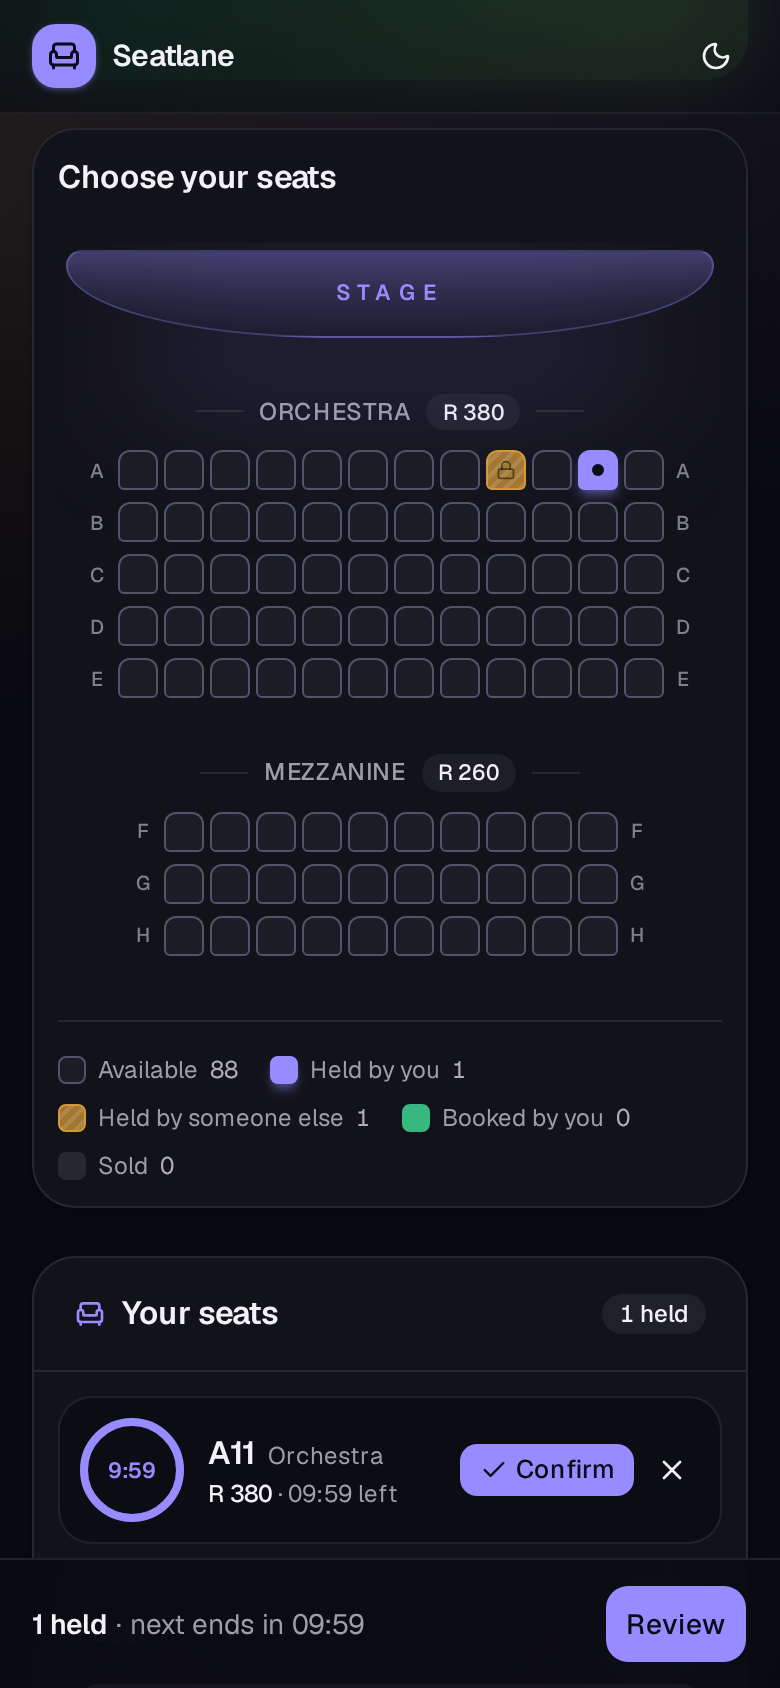
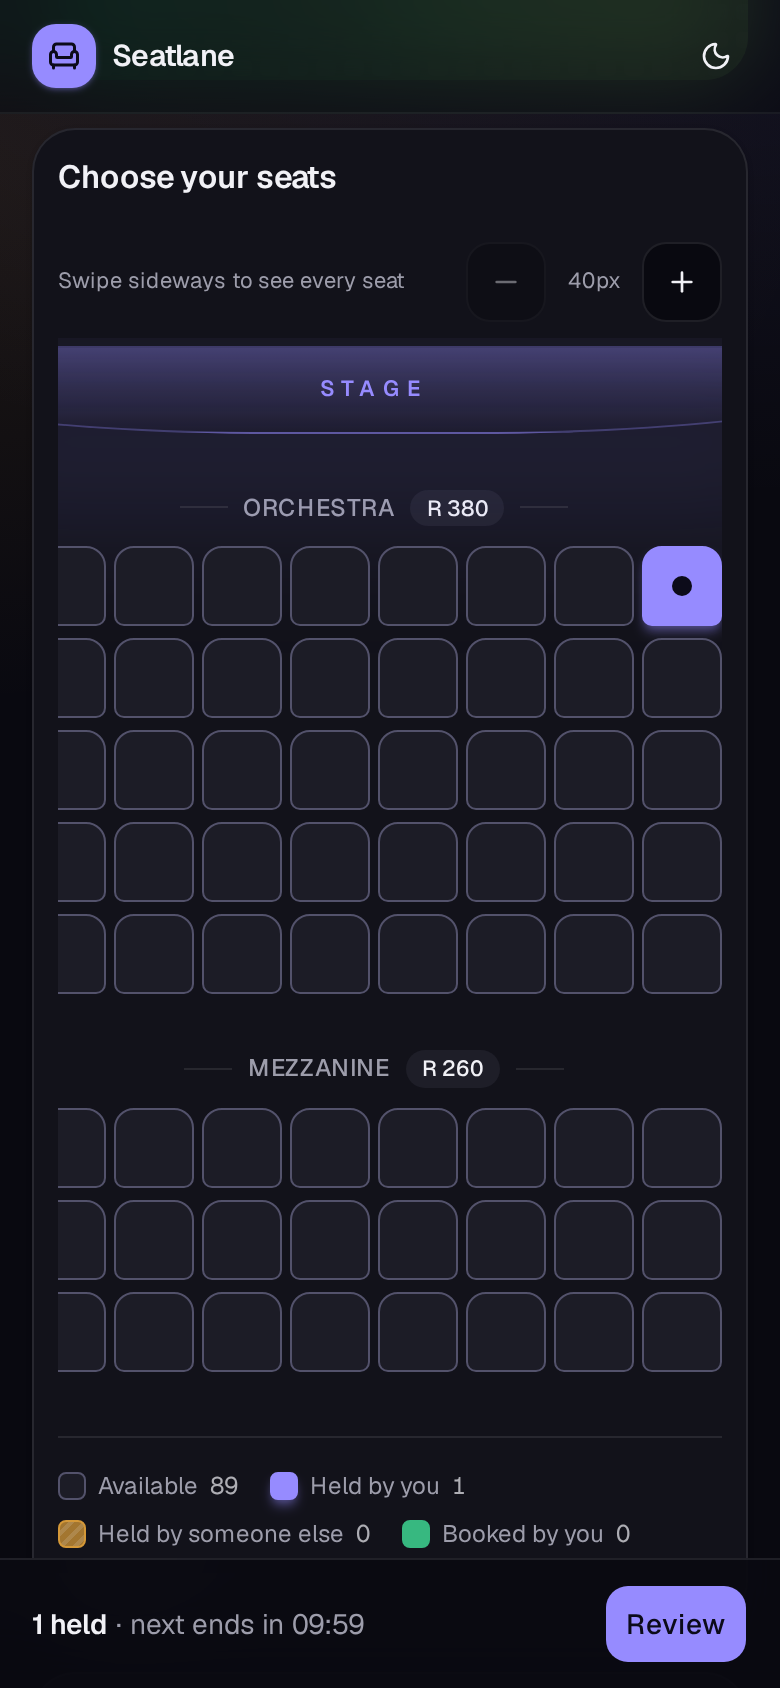
Mobile: 40px seat tap targets with sideways scroll and +/- zoom; tapping your own held seat asks before releasing
Under 640px every seat is at least 40px (40/48/56 with the zoom buttons) and
the map scrolls inside its card. A touch tap on a seat you hold opens a
'Release ...?' dialog; mouse click and Enter still release at once.

docs/bridge-en-gaps.md records why the all-or-nothing Confirm all of an
explicit seat_ids list cannot be written in bridge-en v0.1.2 (no list input,
no IN in a claim, S10 compares the changed count only with 0 or 1), and the
S10 compound-guard loophole. Confirm all is unchanged (per seat) until then.

diff --git a/web/src/components/seat-map.tsx b/web/src/components/seat-map.tsx
@@ -1,6 +1,6 @@
 import { memo, useCallback, useEffect, useMemo, useRef, useState } from 'react'
 import { AnimatePresence, motion } from 'framer-motion'
-import { Check, Loader2, Lock, X } from 'lucide-react'
+import { Check, Loader2, Lock, Minus, Plus, X } from 'lucide-react'
 import type { Seat } from '@/lib/api'
 import { formatMoney, formatRange, seatLabel } from '@/lib/format'
 import { layout, seatState, STATE_TEXT, type SeatState } from '@/lib/seats'
@@ -11,8 +11,13 @@ export type Pending = 'hold' | 'release' | 'confirm'
 type Props = {
   seats: Seat[]
   pending: ReadonlyMap<number, Pending>
-  onActivate: (seat: Seat) => void
+  /** `touch`: the seat was tapped on a touch screen (not a mouse click or a key). */
+  onActivate: (seat: Seat, via: { touch: boolean }) => void
 }
+
+/** Seat sizes on screens under 640px, in CSS pixels: never below 40, the
+ * smallest comfortable tap target. Wider screens use a fixed 28px seat. */
+const ZOOMS = [40, 48, 56] as const
 
 const SEAT_STYLE: Record<SeatState, string> = {
   available:
@@ -42,6 +47,7 @@ export function SeatMap({ seats, pending, onActivate }: Props) {
   const canvas = useRef<HTMLDivElement>(null)
   const scroller = useRef<HTMLDivElement>(null)
   const [wide, setWide] = useState(false)
+  const [zoom, setZoom] = useState(0)
   // On narrow screens a wide hall scrolls sideways: start centred on the stage.
   useEffect(() => {
     const el = scroller.current
@@ -55,7 +61,7 @@ export function SeatMap({ seats, pending, onActivate }: Props) {
     const ro = new ResizeObserver(check)
     ro.observe(el)
     return () => ro.disconnect()
-  }, [sections.length])
+  }, [sections.length, zoom])
 
   // Roving tabindex: one seat is in the tab order (the last focused one, or
   // the first available seat, or the first seat).
@@ -107,12 +113,21 @@ export function SeatMap({ seats, pending, onActivate }: Props) {
 
   return (
     <div className="relative">
-      {wide && (
-        <p className="mb-2 text-center text-[11px] text-muted-foreground sm:hidden" aria-hidden>
-          Swipe sideways to see every seat
+      <div className="mb-2 flex items-center justify-between gap-2 sm:hidden" data-testid="zoom-controls">
+        <p className="text-[11px] text-muted-foreground" aria-hidden>
+          {wide ? 'Swipe sideways to see every seat' : 'Tap a seat to hold it'}
         </p>
-      )}
-      <div ref={scroller} className="overflow-x-auto overscroll-x-contain pb-2 [scrollbar-width:thin]">
+        <div className="flex items-center gap-1" role="group" aria-label="Seat size">
+          <button type="button" onClick={() => setZoom((z) => Math.max(0, z - 1))} disabled={zoom === 0} aria-label="Smaller seats" data-testid="zoom-out" className="grid size-10 place-items-center rounded-lg border bg-background text-foreground transition-colors outline-none hover:bg-muted focus-visible:ring-3 focus-visible:ring-ring/50 disabled:opacity-40">
+            <Minus className="size-4" aria-hidden />
+          </button>
+          <span className="w-10 text-center text-[11px] text-muted-foreground tabular" aria-live="polite">{ZOOMS[zoom]}px</span>
+          <button type="button" onClick={() => setZoom((z) => Math.min(ZOOMS.length - 1, z + 1))} disabled={zoom === ZOOMS.length - 1} aria-label="Bigger seats" data-testid="zoom-in" className="grid size-10 place-items-center rounded-lg border bg-background text-foreground transition-colors outline-none hover:bg-muted focus-visible:ring-3 focus-visible:ring-ring/50 disabled:opacity-40">
+            <Plus className="size-4" aria-hidden />
+          </button>
+        </div>
+      </div>
+      <div ref={scroller} className="overflow-x-auto overscroll-x-contain pb-2 [scrollbar-width:thin]" style={{ '--seat': `${ZOOMS[zoom]}px` } as React.CSSProperties} data-testid="seat-scroller">
         <div ref={canvas} className="relative mx-auto flex w-max min-w-full flex-col items-center gap-7 px-1 pt-1 sm:px-2" onKeyDown={onKeyDown} onMouseLeave={() => setTip(null)}>
           <Stage />
           <div role="grid" aria-label="Seat map. Use the arrow keys to move between seats, Enter to hold or release." aria-rowcount={rows.length} className="flex flex-col items-center gap-7">
@@ -131,7 +146,7 @@ export function SeatMap({ seats, pending, onActivate }: Props) {
                   {sec.rows.map((row) => (
                     <div key={row.label} role="row" className="flex items-center gap-1 sm:gap-2">
                       <RowLabel label={row.label} />
-                      <div className="flex gap-[3px] sm:gap-1.5">
+                      <div className="flex gap-1 sm:gap-1.5">
                         {row.seats.map((s) => (
                           <SeatButton
                             key={s.seat_id}
@@ -182,7 +197,7 @@ type SeatButtonProps = {
   seat: Seat
   pending?: Pending
   tabbable: boolean
-  onActivate: (s: Seat) => void
+  onActivate: (s: Seat, via: { touch: boolean }) => void
   onShow: (s: Seat, el: HTMLElement) => void
   onHide: () => void
   onFocusSeat: (id: number) => void
@@ -191,6 +206,7 @@ type SeatButtonProps = {
 const SeatButton = memo(function SeatButton({ seat, pending, tabbable, onActivate, onShow, onHide, onFocusSeat }: SeatButtonProps) {
   const state = seatState(seat)
   const actionable = state === 'available' || state === 'mine'
+  const pointer = useRef('')
   const label = `${seat.section}, row ${seat.row}, seat ${seat.number}, ${formatMoney(seat.price)}, ${pending ? pendingText(pending) : STATE_TEXT[state].toLowerCase()}`
   return (
     <span role="gridcell" className="contents">
@@ -205,7 +221,12 @@ const SeatButton = memo(function SeatButton({ seat, pending, tabbable, onActivat
         aria-busy={!!pending}
         tabIndex={tabbable ? 0 : -1}
         whileTap={actionable && !pending ? { scale: 0.85 } : undefined}
-        onClick={() => actionable && !pending && onActivate(seat)}
+        onPointerDown={(e) => { pointer.current = e.pointerType }}
+        onClick={(e) => {
+          const touch = pointer.current === 'touch' || (e.nativeEvent as PointerEvent).pointerType === 'touch'
+          pointer.current = ''
+          if (actionable && !pending) onActivate(seat, { touch })
+        }}
         onMouseEnter={(e) => onShow(seat, e.currentTarget)}
         onFocus={(e) => {
           onFocusSeat(seat.seat_id)
@@ -213,7 +234,7 @@ const SeatButton = memo(function SeatButton({ seat, pending, tabbable, onActivat
         }}
         onBlur={onHide}
         className={cn(
-          'relative grid size-5 place-items-center rounded-[6px] rounded-b-[3px] border-[1.5px] transition-all duration-150 outline-none focus-visible:ring-3 focus-visible:ring-ring/60 focus-visible:ring-offset-2 focus-visible:ring-offset-background sm:size-7 sm:rounded-[9px] sm:rounded-b-[5px]',
+          'relative grid size-(--seat) place-items-center rounded-[10px] rounded-b-[5px] border-[1.5px] transition-all duration-150 outline-none focus-visible:ring-3 focus-visible:ring-ring/60 focus-visible:ring-offset-2 focus-visible:ring-offset-background sm:size-7 sm:rounded-[9px] sm:rounded-b-[5px]',
           SEAT_STYLE[state],
           pending === 'hold' && 'border-primary bg-primary/40 text-primary-foreground',
           pending === 'release' && 'opacity-50',
@@ -231,16 +252,16 @@ function pendingText(p: Pending) {
 }
 
 function SeatGlyph({ state, pending }: { state: SeatState; pending?: Pending }) {
-  if (pending === 'hold' || pending === 'release') return <Loader2 className="size-3 animate-spin sm:size-3.5" aria-hidden />
+  if (pending === 'hold' || pending === 'release') return <Loader2 className="size-4 animate-spin sm:size-3.5" aria-hidden />
   switch (state) {
     case 'mine':
-      return <motion.span initial={{ scale: 0 }} animate={{ scale: 1 }} className="size-1.5 rounded-full bg-current sm:size-2" aria-hidden />
+      return <motion.span initial={{ scale: 0 }} animate={{ scale: 1 }} className="size-2.5 rounded-full bg-current sm:size-2" aria-hidden />
     case 'sold-mine':
-      return <Check className="size-3 sm:size-3.5" strokeWidth={3} aria-hidden />
+      return <Check className="size-4 sm:size-3.5" strokeWidth={3} aria-hidden />
     case 'sold-other':
-      return <X className="size-2.5 text-muted-foreground/70 sm:size-3" aria-hidden />
+      return <X className="size-3.5 text-muted-foreground/70 sm:size-3" aria-hidden />
     case 'other':
-      return <Lock className="size-2.5 text-black/50 sm:size-3" aria-hidden />
+      return <Lock className="size-3.5 text-black/50 sm:size-3" aria-hidden />
     default:
       return null
   }
@@ -270,7 +291,7 @@ function SeatTooltip({ tip, pending }: { tip: { seat: Seat; x: number; y: number
             <LegendSwatch state={seatState(tip.seat)} small />
             {pending ? pendingText(pending) : STATE_TEXT[seatState(tip.seat)]}
             {seatState(tip.seat) === 'available' && !pending && <span className="text-primary">· click to hold</span>}
-            {seatState(tip.seat) === 'mine' && !pending && <span className="text-primary">· click to release</span>}
+            {seatState(tip.seat) === 'mine' && !pending && <span className="text-primary">· click to release (tap asks first)</span>}
           </div>
           <span className="absolute -bottom-[5px] left-1/2 size-2.5 -translate-x-1/2 rotate-45 border-r border-b bg-popover" />
         </motion.div>

diff --git a/web/src/components/ui/alert-dialog.tsx b/web/src/components/ui/alert-dialog.tsx
@@ -1,0 +1,54 @@
+import * as React from "react"
+import { AlertDialog as AlertDialogPrimitive } from "radix-ui"
+import { cn } from "@/lib/utils"
+import { buttonVariants } from "@/components/ui/button"
+
+function AlertDialog(props: React.ComponentProps<typeof AlertDialogPrimitive.Root>) {
+  return <AlertDialogPrimitive.Root data-slot="alert-dialog" {...props} />
+}
+
+function AlertDialogContent({ className, ...props }: React.ComponentProps<typeof AlertDialogPrimitive.Content>) {
+  return (
+    <AlertDialogPrimitive.Portal>
+      <AlertDialogPrimitive.Overlay
+        data-slot="alert-dialog-overlay"
+        className="fixed inset-0 z-50 bg-background/70 backdrop-blur-sm data-[state=open]:animate-in data-[state=open]:fade-in-0 data-[state=closed]:animate-out data-[state=closed]:fade-out-0"
+      />
+      <AlertDialogPrimitive.Content
+        data-slot="alert-dialog-content"
+        className={cn(
+          "fixed inset-x-4 bottom-4 z-50 mx-auto grid max-w-sm gap-4 rounded-2xl border bg-card p-5 shadow-2xl sm:inset-x-0 sm:top-1/2 sm:bottom-auto sm:-translate-y-1/2",
+          "data-[state=open]:animate-in data-[state=open]:fade-in-0 data-[state=open]:slide-in-from-bottom-4 data-[state=closed]:animate-out data-[state=closed]:fade-out-0",
+          className,
+        )}
+        {...props}
+      />
+    </AlertDialogPrimitive.Portal>
+  )
+}
+
+function AlertDialogHeader({ className, ...props }: React.ComponentProps<"div">) {
+  return <div data-slot="alert-dialog-header" className={cn("grid gap-1.5", className)} {...props} />
+}
+
+function AlertDialogFooter({ className, ...props }: React.ComponentProps<"div">) {
+  return <div data-slot="alert-dialog-footer" className={cn("grid grid-cols-2 gap-2", className)} {...props} />
+}
+
+function AlertDialogTitle({ className, ...props }: React.ComponentProps<typeof AlertDialogPrimitive.Title>) {
+  return <AlertDialogPrimitive.Title data-slot="alert-dialog-title" className={cn("font-semibold tracking-tight", className)} {...props} />
+}
+
+function AlertDialogDescription({ className, ...props }: React.ComponentProps<typeof AlertDialogPrimitive.Description>) {
+  return <AlertDialogPrimitive.Description data-slot="alert-dialog-description" className={cn("text-sm text-muted-foreground", className)} {...props} />
+}
+
+function AlertDialogAction({ className, ...props }: React.ComponentProps<typeof AlertDialogPrimitive.Action>) {
+  return <AlertDialogPrimitive.Action className={cn(buttonVariants({ variant: "destructive", size: "lg" }), "h-11", className)} {...props} />
+}
+
+function AlertDialogCancel({ className, ...props }: React.ComponentProps<typeof AlertDialogPrimitive.Cancel>) {
+  return <AlertDialogPrimitive.Cancel className={cn(buttonVariants({ variant: "outline", size: "lg" }), "h-11", className)} {...props} />
+}
+
+export { AlertDialog, AlertDialogAction, AlertDialogCancel, AlertDialogContent, AlertDialogDescription, AlertDialogFooter, AlertDialogHeader, AlertDialogTitle }

diff --git a/web/src/pages/event-page.tsx b/web/src/pages/event-page.tsx
@@ -14,6 +14,7 @@ import { CheckoutPanel, type HoldRow } from '@/components/checkout-panel'
 import { SuccessState } from '@/components/success-state'
 import { StateCard } from '@/components/states'
 import { useTicker } from '@/hooks/use-ticker'
+import { AlertDialog, AlertDialogAction, AlertDialogCancel, AlertDialogContent, AlertDialogDescription, AlertDialogFooter, AlertDialogHeader, AlertDialogTitle } from '@/components/ui/alert-dialog'
 
 const POLL_MS = 4000
 
@@ -34,6 +35,7 @@ export function EventPage() {
   const [success, setSuccess] = useState<number[] | null>(null)
   const [busyAll, setBusyAll] = useState(false)
   const [message, setMessage] = useState('')
+  const [askRelease, setAskRelease] = useState<number | null>(null)
   const holdsRef = useRef<HoldView[]>([])
   const seq = useRef(0)
 
@@ -183,9 +185,13 @@ export function EventPage() {
     setBusyAll(false)
   }, [confirmSeats])
 
+  // Tapping your own held seat on a touch screen asks first (a stray tap
+  // while scrolling must not give a seat away); a mouse click or Enter
+  // releases at once, as the tooltip says.
   const onSeat = useCallback(
-    (s: Seat) => {
+    (s: Seat, via: { touch: boolean }) => {
       if (s.available) hold(s.seat_id)
+      else if (s.held_by_me && via.touch) setAskRelease(s.seat_id)
       else if (s.held_by_me) release(s.seat_id)
     },
     [hold, release],
@@ -317,6 +323,29 @@ export function EventPage() {
           </div>
         </motion.div>
       )}
+
+      <AlertDialog open={askRelease !== null} onOpenChange={(open) => !open && setAskRelease(null)}>
+        <AlertDialogContent data-testid="release-confirm">
+          <AlertDialogHeader>
+            <AlertDialogTitle>Release {askRelease !== null ? nameOf(askRelease) : 'this seat'}?</AlertDialogTitle>
+            <AlertDialogDescription>
+              It goes back on sale straight away, and someone else can take it.
+            </AlertDialogDescription>
+          </AlertDialogHeader>
+          <AlertDialogFooter>
+            <AlertDialogCancel data-testid="release-keep">Keep it</AlertDialogCancel>
+            <AlertDialogAction
+              data-testid="release-yes"
+              onClick={() => {
+                if (askRelease !== null) release(askRelease)
+                setAskRelease(null)
+              }}
+            >
+              Release
+            </AlertDialogAction>
+          </AlertDialogFooter>
+        </AlertDialogContent>
+      </AlertDialog>
 
       <SuccessState open={successSeats.length > 0} event={e} seats={successSeats} onClose={() => setSuccess(null)} />
     </main>

diff --git a/docs/bridge-en-gaps.md b/docs/bridge-en-gaps.md
@@ -1,0 +1,55 @@
+# bridge-en gaps (for the v0.2 list)
+
+Found while building "Confirm all" on bridge-en v0.1.2 (2026-10-09). Seatlane
+does not modify bridge-en and uses no waivers, so these block the feature.
+
+## G1: an all-or-nothing confirm of an explicit list of seats
+
+Wanted (reviewer): `POST` with `seat_ids` (the seats on the review screen,
+1 to 20, no duplicates); one conditional UPDATE sells only those seats where
+`held_by` = session, `sold_to` = '' and `expires_at` > now; then stop, rolling
+everything back, unless the number of rows changed is the number of seats
+requested. The English must say "only the seats in the request's `seat_ids`"
+and "if the number changed is not the number of seats requested".
+
+v0.1.2 refuses every piece of it (exact messages from `bridge-en -check`):
+
+1. **List input (D4).** `SeatIDs []int64 \`json:"seat_ids"\`` -
+   `refused: field type []int64 is not in the allowed pattern list (D4 input). List fields are only on Output (D5); Input stays scalar`
+2. **IN / sqlc.slice in a claim (Q6).** `WHERE id IN (sqlc.slice(seat_ids)) AND ...` -
+   `refused: IN is not in the allowed pattern list (query ConfirmSeats). Expected a comparison (= <> < <= > >=) after id`
+3. **Changed-row count against a request value (S10).** `if confirmed != in.Count` -
+   `refused: comparison confirmed != in.Count on a claim's changed-row count is not in the allowed pattern list (S10 claim check). Compare a Q6 result only as != 1 (the check), == 1 or == 0`
+4. **Length of a list (E5).** `len(in.SeatIDs)` -
+   `refused: call to len is not in the allowed pattern list (expression)`
+5. **List validation.** No rule renders "between 1 and 20 items" or "no
+   duplicates" for an input list (page.IsPageLimit is only for scalars).
+
+Needed in v0.2: a bounded scalar-list input (e.g. `[]int64` with a declared
+max, duplicates refused by httpx.Bind, English "a list of 1 to 20 distinct
+whole numbers"); a Q6 condition `<col> IN (sqlc.slice(<list>))` rendered as
+"only the seats whose `id` is in the request's `seat_ids`"; and an S10 form
+`if <n> != len(in.<List>)` rendered as "if the number of seats changed in
+step k is not the number of seats requested".
+
+Workarounds deliberately not used: N single-seat claims, a fixed-arity
+`seat_1..seat_8` input (Input has at most 10 fields, two are server-set),
+or an OR group of fixed slots.
+
+## G2: S10 accepts `!= 1` buried in a compound guard
+
+S10 counts a claim as checked when `<n> != 1` appears anywhere inside a guard
+condition, so `if n == 0 && n != 1 { return Output{}, F13 }` passes and
+renders "If no seat was changed in step 2 and not exactly one seat was
+changed in step 2, stop with F13". The English is true but redundant, and it
+lets a multi-row claim pass the "exactly one row" check without meaning it.
+Either S10 should require the bare `if <n> != 1` guard, or (better, with G1)
+offer a real multi-row check. Also, a plain `if n == 0` guard is not accepted
+as a claim check, so a slice cannot write "if no seat was changed" on its own.
+
+## G3: S10 assumes one-row claims
+
+Any Q6 claim must be followed by "stop unless exactly one row changed". A
+multi-row conditional UPDATE (every seat of an event held by this session)
+can only pass by G2's loophole. An all-or-nothing multi-row transition needs
+its own rule (G1 item 3).

diff --git a/README.md b/README.md
@@ -21,6 +21,7 @@ server says.
 <p align="center">
   <img src="docs/screenshots/mobile-seatmap-light.png" alt="Seat map on a phone, light" width="260">
   <img src="docs/screenshots/mobile-seatmap-dark.png" alt="Seat map on a phone, dark" width="260">
+  <img src="docs/screenshots/mobile-release-confirm-dark.png" alt="Tapping your own held seat on a phone asks before releasing it" width="260">
 </p>
 
 ## How it works
@@ -65,6 +66,17 @@ All seat and hold rules live in Go. The web app:
   says so;
 - shows a pending state the moment you click a seat, then reconciles with the
   server's answer; every failure ID gets a toast with its own copy.
+
+On screens under 640px every seat is a tap target of at least 40px; the map
+scrolls sideways inside its card and has +/- buttons for bigger seats (40,
+48, 56px). Tapping your own held seat on a touch screen asks "Release …?"
+before giving it back; a mouse click or Enter releases at once.
+
+"Confirm all" still confirms seat by seat (one `confirm_hold` per seat), so a
+hold that runs out half-way can leave part of a group booked. An
+all-or-nothing confirm of the seats on the review screen needs a list input
+that bridge-en v0.1.2 does not have; see
+[docs/bridge-en-gaps.md](docs/bridge-en-gaps.md).
 
 The seat map is keyboard-navigable (arrow keys, Home/End, Enter), has
 hover/focus tooltips with the seat label and price in rand, and announces
